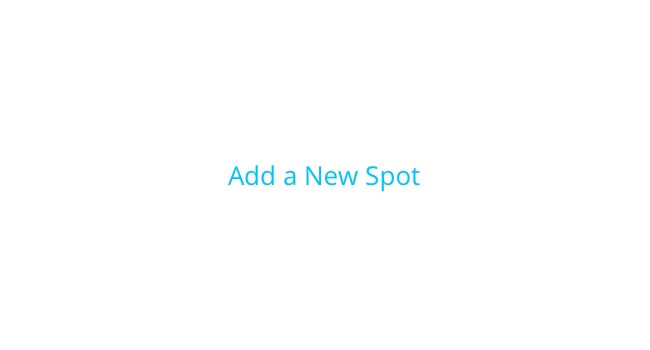
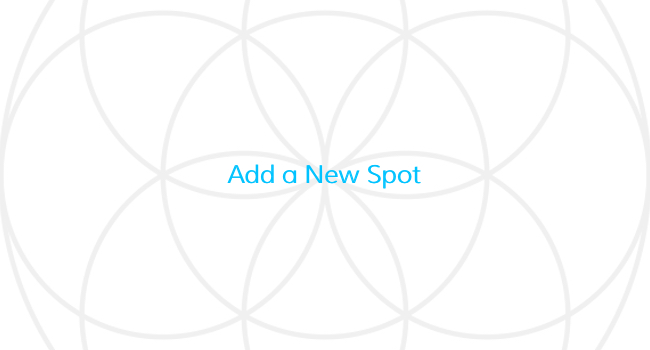
category page edits

Changed region(s): [[0.3385, 0.4571, 0.6462, 0.5429]]

diff --git a/public/stylesheets/application.css b/public/stylesheets/application.css
@@ -302,7 +302,7 @@ a, a:visited, a:hover, a:active {
     text-align: center;
     color: #fff;
     opacity: 0;
-    background: rgba(240,95,64,.9);
+    background: rgba(0, 194, 255, 0.75);
     -webkit-transition: all .35s;
     -moz-transition: all .35s;
     transition: all .35s;
